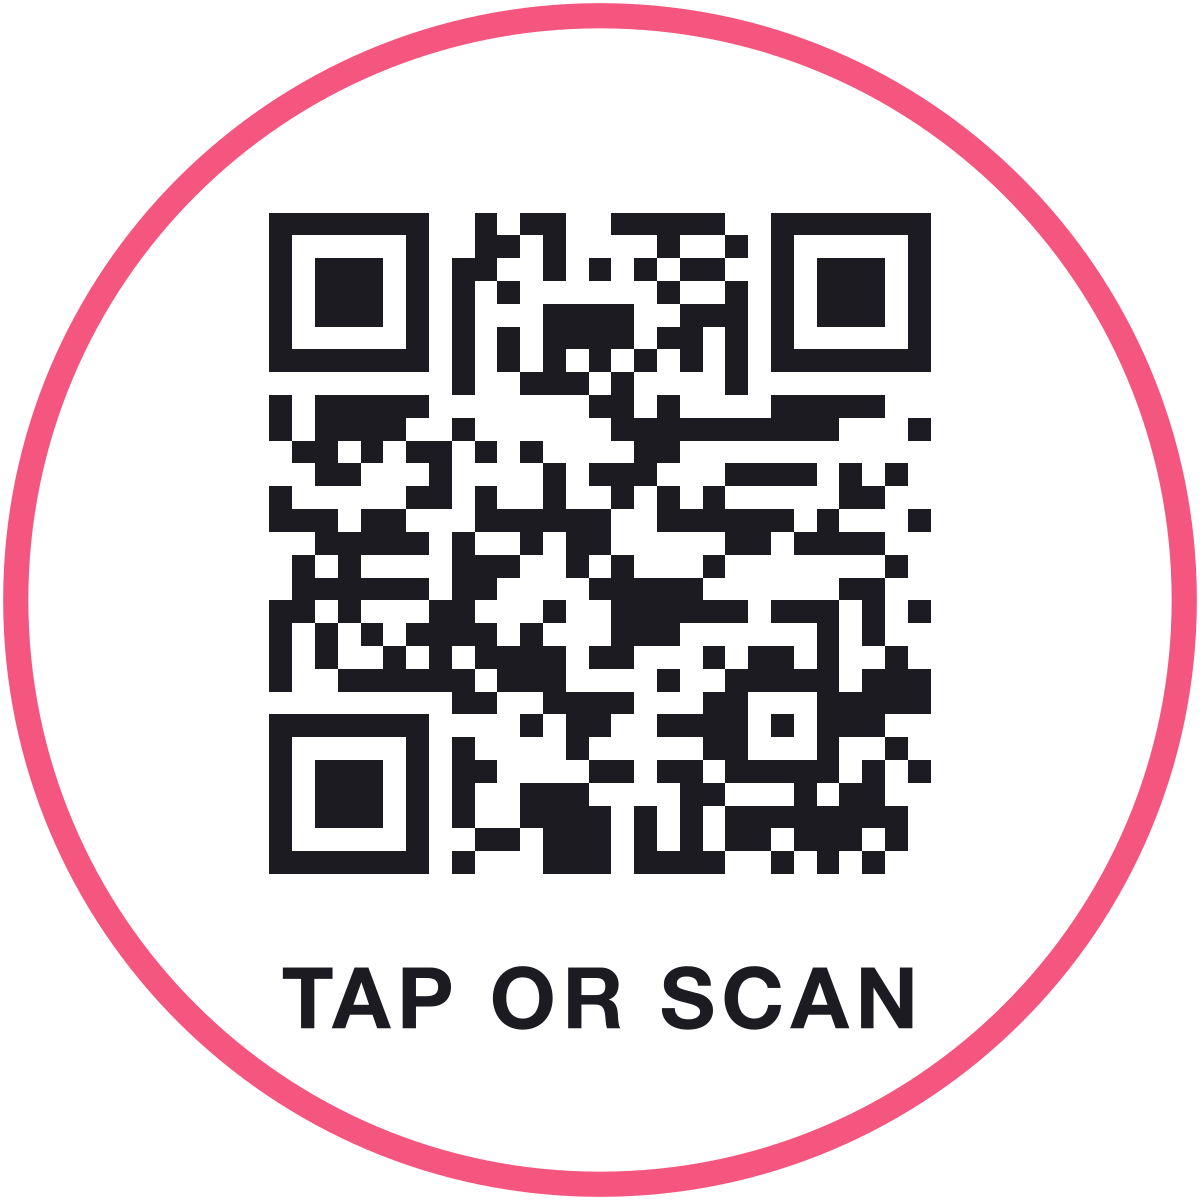
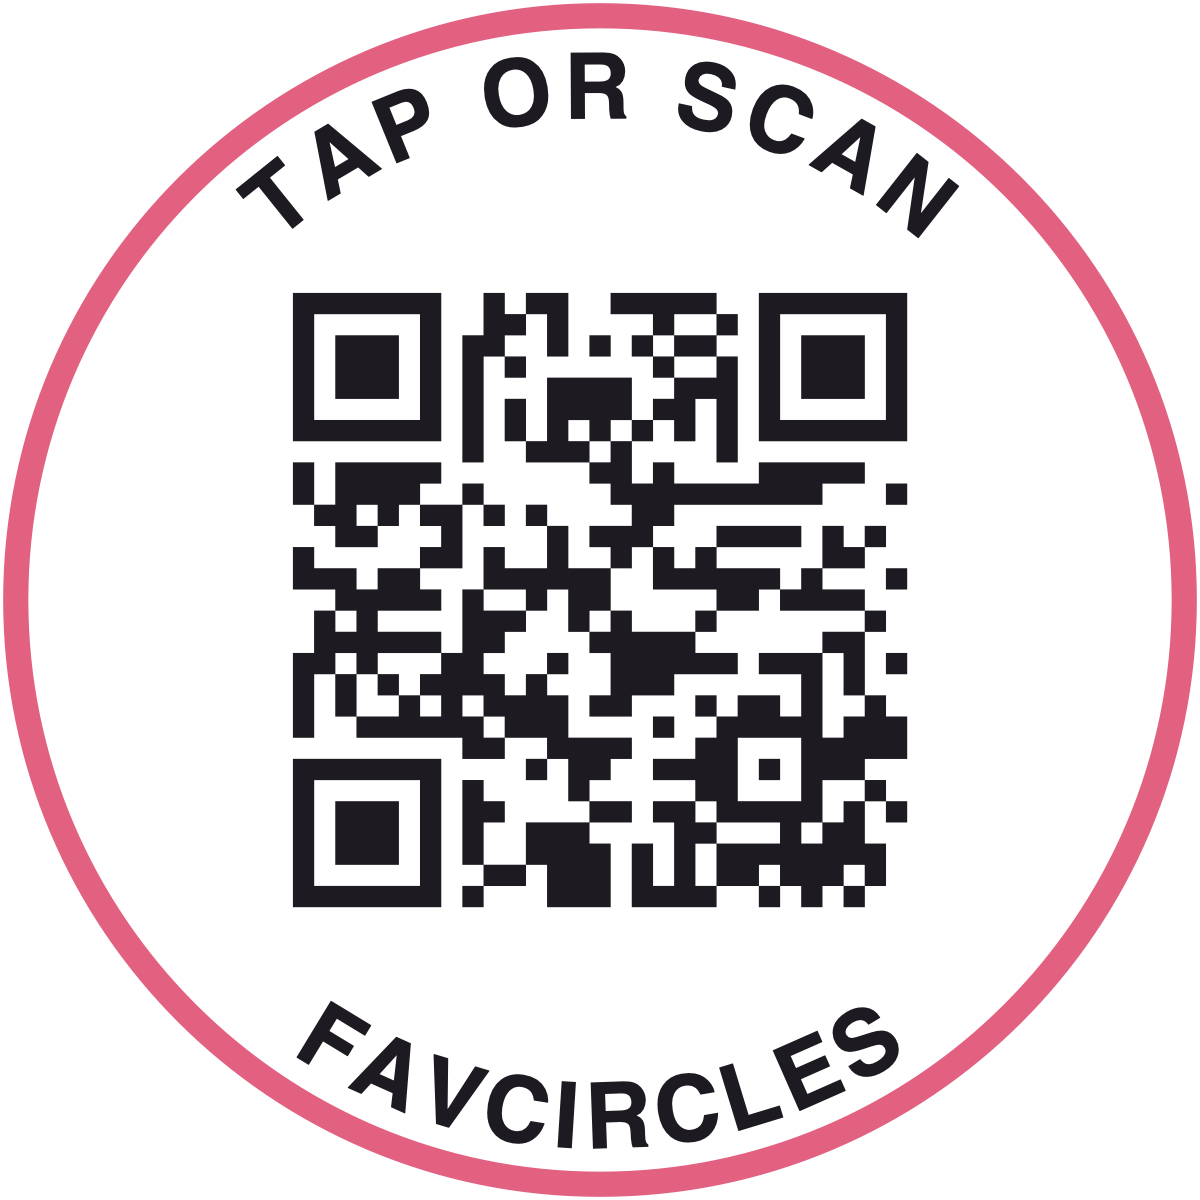
Totem previews show the new round label; make-totem.sh makes the label on a Mac without openscad (Wes, 2026-11-24)
Claude-Session: https://claude.ai/code/session_01GsRjBQZ1WcwjiqZTcAHJ56

diff --git a/Marketing/mascot/favcircles-totem.html b/Marketing/mascot/favcircles-totem.html
@@ -166,11 +166,25 @@ function labelTexture() {
   g.strokeStyle = '#f0607f'; g.lineWidth = 12; g.beginPath(); g.arc(256, 256, 248, 0, Math.PI * 2); g.stroke();
   if (window.qrcode) {
     const q = qrcode(0, 'M'); q.addData('https://api.favcircles.com/s/JOINUS?t=favvy'); q.make();
-    const n = q.getModuleCount(), size = 282, m = size / n, x0 = 256 - size / 2, y0 = 256 - size / 2 - 22;
+    const n = q.getModuleCount(), size = 262, m = size / n, x0 = 256 - size / 2, y0 = 256 - size / 2;
     g.fillStyle = '#1d1b22';
     for (let r = 0; r < n; r++) for (let k = 0; k < n; k++) if (q.isDark(r, k)) g.fillRect(x0 + k * m, y0 + r * m, m + 0.5, m + 0.5);
   }
-  g.fillStyle = '#1d1b22'; g.font = '700 34px Helvetica, Arial, sans-serif'; g.textAlign = 'center'; g.fillText('TAP OR SCAN', 256, 438);
+  // Words round the edge, as on the printed label (backend/services/roundLabelArt.js):
+  // TAP OR SCAN over the top, the store's name (FAVCIRCLES here) round the bottom
+  g.fillStyle = '#1d1b22'; g.font = '700 39px Helvetica, Arial, sans-serif'; g.textAlign = 'center'; g.textBaseline = 'alphabetic';
+  const arc = (text, r, bottom) => {
+    const gap = 3.4, w = [...text].map((ch) => g.measureText(ch).width + gap);
+    let at = -(w.reduce((a, b) => a + b, 0) - gap) / 2;
+    [...text].forEach((ch, i) => {
+      const a = (at + (w[i] - gap) / 2) / r; at += w[i];
+      g.save();
+      if (bottom) { g.translate(256 + r * Math.sin(a), 256 + r * Math.cos(a)); g.rotate(-a); }
+      else { g.translate(256 + r * Math.sin(a), 256 - r * Math.cos(a)); g.rotate(a); }
+      g.fillText(ch, 0, 0); g.restore();
+    });
+  };
+  arc('TAP OR SCAN', 206, false); arc('FAVCIRCLES', 234, true);
   const t = new THREE.CanvasTexture(c); t.colorSpace = THREE.SRGBColorSpace; t.anisotropy = 8; return t;
 }
 
